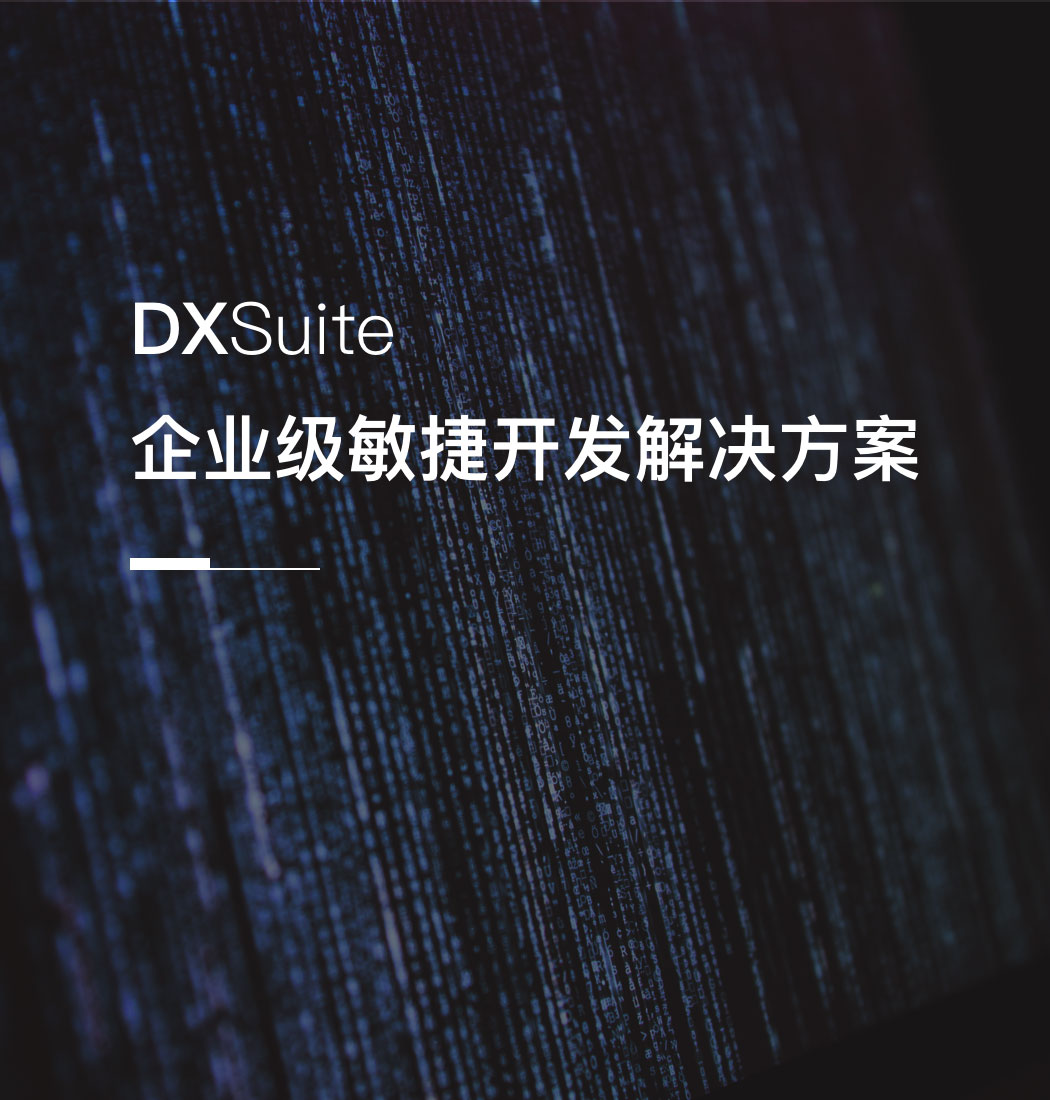
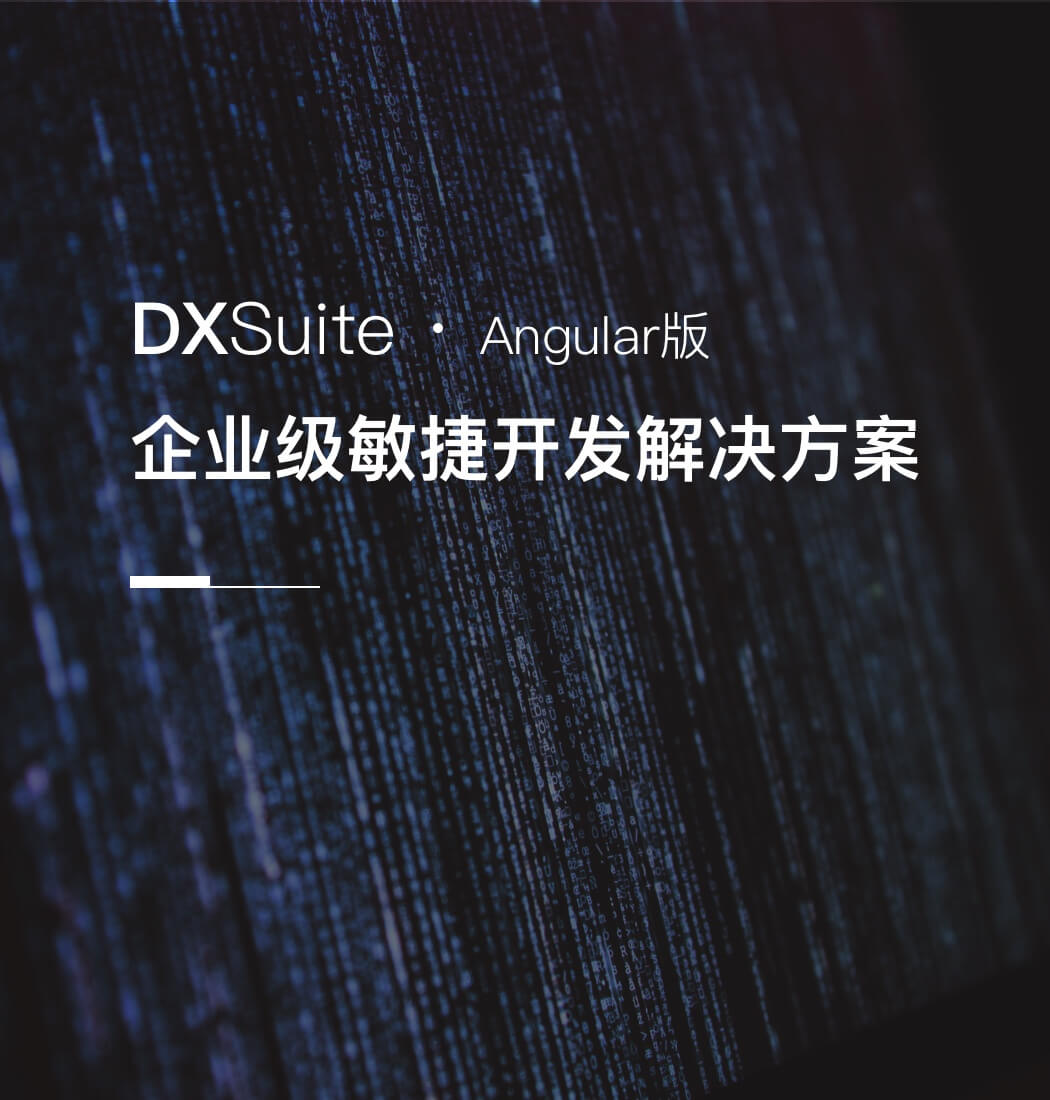
refactor: 登录页增加angular版本信息

Changed region(s): [[0.4571, 0.2782, 0.6705, 0.34], [0.1219, 0.4945, 0.2133, 0.5564]]

diff --git a/src/app/modules/change-email/change-email.component.html b/src/app/modules/change-email/change-email.component.html
@@ -35,7 +35,7 @@
       </div>
     </div>
     <div class="portal-layout-footer">
-      <div class="footer-slogen">— DXSuite · 企业级敏捷开发解决方案 —</div>
+      <div class="footer-slogen">— DXSuite · 企业级敏捷开发解决方案 · Angular版 —</div>
       <div class="footer-copyright">Copyright © 2021 大连代码跳动科技有限公司 All Rights Reserved. 辽ICP备19008868号-12</div>
     </div>
   </div>

diff --git a/src/app/modules/change-mobile/change-mobile.component.html b/src/app/modules/change-mobile/change-mobile.component.html
@@ -38,7 +38,7 @@
       </div>
     </div>
     <div class="portal-layout-footer">
-      <div class="footer-slogen">— DXSuite · 企业级敏捷开发解决方案 —</div>
+      <div class="footer-slogen">— DXSuite · 企业级敏捷开发解决方案 · Angular版 —</div>
       <div class="footer-copyright">Copyright © 2021 大连代码跳动科技有限公司 All Rights Reserved. 辽ICP备19008868号-12</div>
     </div>
   </div>

diff --git a/src/app/modules/login/login.component.html b/src/app/modules/login/login.component.html
@@ -96,7 +96,7 @@
       </div>
     </div>
     <div class="portal-layout-footer">
-      <div class="footer-slogen">— DXSuite · 企业级敏捷开发解决方案 —</div>
+      <div class="footer-slogen">— DXSuite · 企业级敏捷开发解决方案 · Angular版 —</div>
       <div class="footer-copyright">Copyright © 2021 大连代码跳动科技有限公司 All Rights Reserved. 辽ICP备19008868号-12</div>
     </div>
   </div>

diff --git a/src/app/modules/register/register.component.html b/src/app/modules/register/register.component.html
@@ -76,7 +76,7 @@
       </div>
     </div>
     <div class="portal-layout-footer">
-      <div class="footer-slogen">— DXSuite · 企业级敏捷开发解决方案 —</div>
+      <div class="footer-slogen">— DXSuite · 企业级敏捷开发解决方案 · Angular版 —</div>
       <div class="footer-copyright">Copyright © 2021 大连代码跳动科技有限公司 All Rights Reserved. 辽ICP备19008868号-12</div>
     </div>
   </div>

diff --git a/src/app/modules/reset-password/reset-password.component.html b/src/app/modules/reset-password/reset-password.component.html
@@ -32,7 +32,7 @@
       </div>
     </div>
     <div class="portal-layout-footer">
-      <div class="footer-slogen">— DXSuite · 企业级敏捷开发解决方案 —</div>
+      <div class="footer-slogen">— DXSuite · 企业级敏捷开发解决方案 · Angular版 —</div>
       <div class="footer-copyright">Copyright © 2021 大连代码跳动科技有限公司 All Rights Reserved. 辽ICP备19008868号-12</div>
     </div>
   </div>

diff --git a/src/app/modules/wx-login/unauthorized.component.html b/src/app/modules/wx-login/unauthorized.component.html
@@ -35,7 +35,7 @@
       </div>
     </div>
     <div class="portal-layout-footer">
-      <div class="footer-slogen">— DXSuite · 企业级敏捷开发解决方案 —</div>
+      <div class="footer-slogen">— DXSuite · 企业级敏捷开发解决方案 · Angular版 —</div>
       <div class="footer-copyright">Copyright © 2021 大连代码跳动科技有限公司 All Rights Reserved. 辽ICP备19008868号-12</div>
     </div>
   </div>

diff --git a/src/app/modules/wx-login/wx-login.component.html b/src/app/modules/wx-login/wx-login.component.html
@@ -29,7 +29,7 @@
       </div>
     </div>
     <div class="portal-layout-footer">
-      <div class="footer-slogen">— DXSuite · 企业级敏捷开发解决方案 —</div>
+      <div class="footer-slogen">— DXSuite · 企业级敏捷开发解决方案 · Angular版 —</div>
       <div class="footer-copyright">Copyright © 2021 大连代码跳动科技有限公司 All Rights Reserved. 辽ICP备19008868号-12</div>
     </div>
   </div>

diff --git a/src/app/modules/invite/invite.component.html b/src/app/modules/invite/invite.component.html
@@ -74,7 +74,7 @@
 
     </div>
     <div class="portal-layout-footer">
-      <div class="footer-slogen">— DXSuite · 企业级敏捷开发解决方案 —</div>
+      <div class="footer-slogen">— DXSuite · 企业级敏捷开发解决方案 · Angular版 —</div>
       <div class="footer-copyright">Copyright © 2021 大连代码跳动科技有限公司 All Rights Reserved. 辽ICP备19008868号-12</div>
     </div>
   </div>

diff --git a/src/app/modules/register/protocol.component.html b/src/app/modules/register/protocol.component.html
@@ -73,6 +73,6 @@
     </section>
   </div>
   <div class="footer text-center padding-bottom-2">
-    <div class="desc margin-bottom-1">— DXSuite · 企业级敏捷开发解决方案 —</div>
+    <div class="desc margin-bottom-1">— DXSuite · 企业级敏捷开发解决方案 · Angular版 —</div>
   </div>
 </div>
